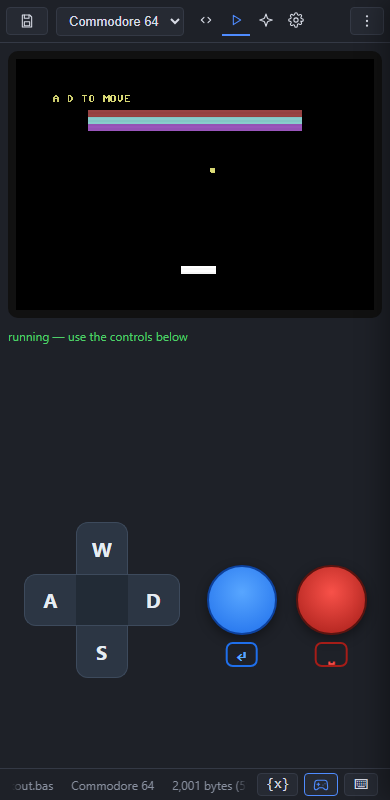
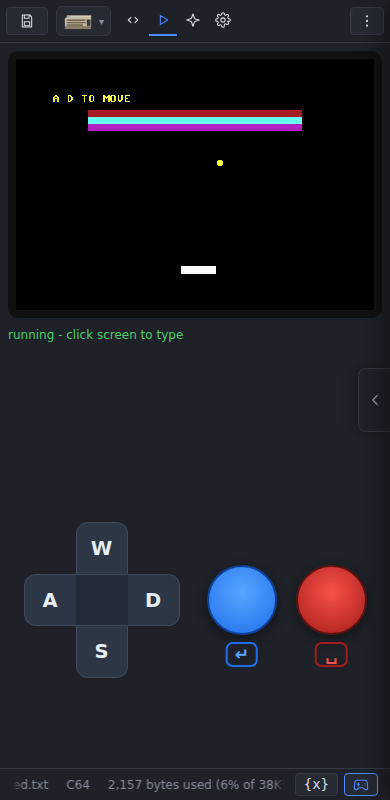
docs: regenerate the screenshots and show the machine picker in Getting started
Every docs/README screenshot is regenerated against the current UI, so the
machine descriptions in them are the new short ones.

Adds two figures to the Getting started walkthrough, captured by two new
tests in the on-demand capture spec: the New-project dialog at step 2, and
the open machine picker at step 3. Both crop to the dialog itself — the
guide is walking through one decision at a time, so the surrounding IDE is
noise. The picker shot raises the viewport to 1200px so all twelve machines
fit rather than capturing a scrolled slice of an 88vh panel.

Step 3 now says the picker is opened from the collapsed machine control,
which is how it has worked since the shared picker landed, and mentions that
each line names the machine's BASIC.

Claude-Session: https://claude.ai/code/session_01WLA61Ufsn8tpMHyTmjPrj1

diff --git a/e2e/capture-docs-screenshots.spec.ts b/e2e/capture-docs-screenshots.spec.ts
@@ -2,6 +2,8 @@ import {
   test,
   chooseTargetMachine,
   createProjectWithSample,
+  machinePicker,
+  openNewProjectDialog,
   type Page,
 } from './fixtures';
 
@@ -342,6 +344,40 @@ test('annotated editor features - desktop', async ({ page }) => {
   ]);
   await page.waitForTimeout(200);
   await page.screenshot({ path: `${OUT}/editor-features.png` });
+});
+
+// ---------------------------------------------------------------------------
+// Getting-started guide figures.
+//
+// Both crop to the dialog itself rather than the whole window: the guide is
+// walking through one decision at a time, so the surrounding IDE is noise.
+// ---------------------------------------------------------------------------
+
+test('getting-started: the New-project dialog', async ({ page }) => {
+  await open(page);
+  await useDialect(page, DIALECT);
+  const dialog = await openNewProjectDialog(page);
+  await page.waitForTimeout(300);
+  // The backdrop carries role="dialog"; its only child is the form that is the
+  // visible panel.
+  await dialog
+    .locator('> form')
+    .screenshot({ path: `${OUT}/new-project-dialog.png` });
+});
+
+test('getting-started: the machine picker', async ({ page }) => {
+  await open(page);
+  const dialog = await openNewProjectDialog(page);
+  // Every machine at once is taller than the capture viewport, and the panel
+  // caps at 88vh - so give it the height rather than shooting a scrolled slice.
+  await page.setViewportSize({ width: VIEWPORT.width, height: 1200 });
+  await dialog.locator('button[data-target-machine]').first().click();
+  const picker = machinePicker(page);
+  await picker.waitFor({ state: 'visible' });
+  await page.waitForTimeout(300);
+  await picker
+    .locator('> div')
+    .screenshot({ path: `${OUT}/machine-picker.png` });
 });
 
 // ---------------------------------------------------------------------------

diff --git a/docs/guide/getting-started.md b/docs/guide/getting-started.md
@@ -10,9 +10,15 @@ This guide walks through running your first program, then generating one with AI
 1. Open the IDE at **[ba.sical.ly](https://ba.sical.ly/)**.
 2. Choose **File ▸ New project**. Everything a program needs to start is here:
    which machine to write for, what to call the project, and what to begin with.
-3. Pick a machine. They're grouped by the company that made them, with the year
-   and a line describing each one - every machine has its own BASIC dialect and
-   its own emulator.
+
+   ![The Start a new project dialog: the chosen machine with its description, a name field, and Blank program / Sample / Describe it as starting points](/new-project-dialog.png)
+
+3. Press the machine to open the picker and pick one. They're grouped by the
+   company that made them, with the year and a line naming the BASIC each one
+   runs - every machine has its own dialect and its own emulator.
+
+   ![The Choose a machine picker, listing every machine grouped under Acorn, Amstrad, Commodore, Sinclair and Tandy, each with its illustration, release year and a one-line description naming its BASIC](/machine-picker.png)
+
 4. Under **Start from**, choose **Sample** and pick **Breakout**, then press
    **Create project**.
 5. Press **▶ Run** (or `Ctrl`+`Enter`). Basically tokenizes your source to a
